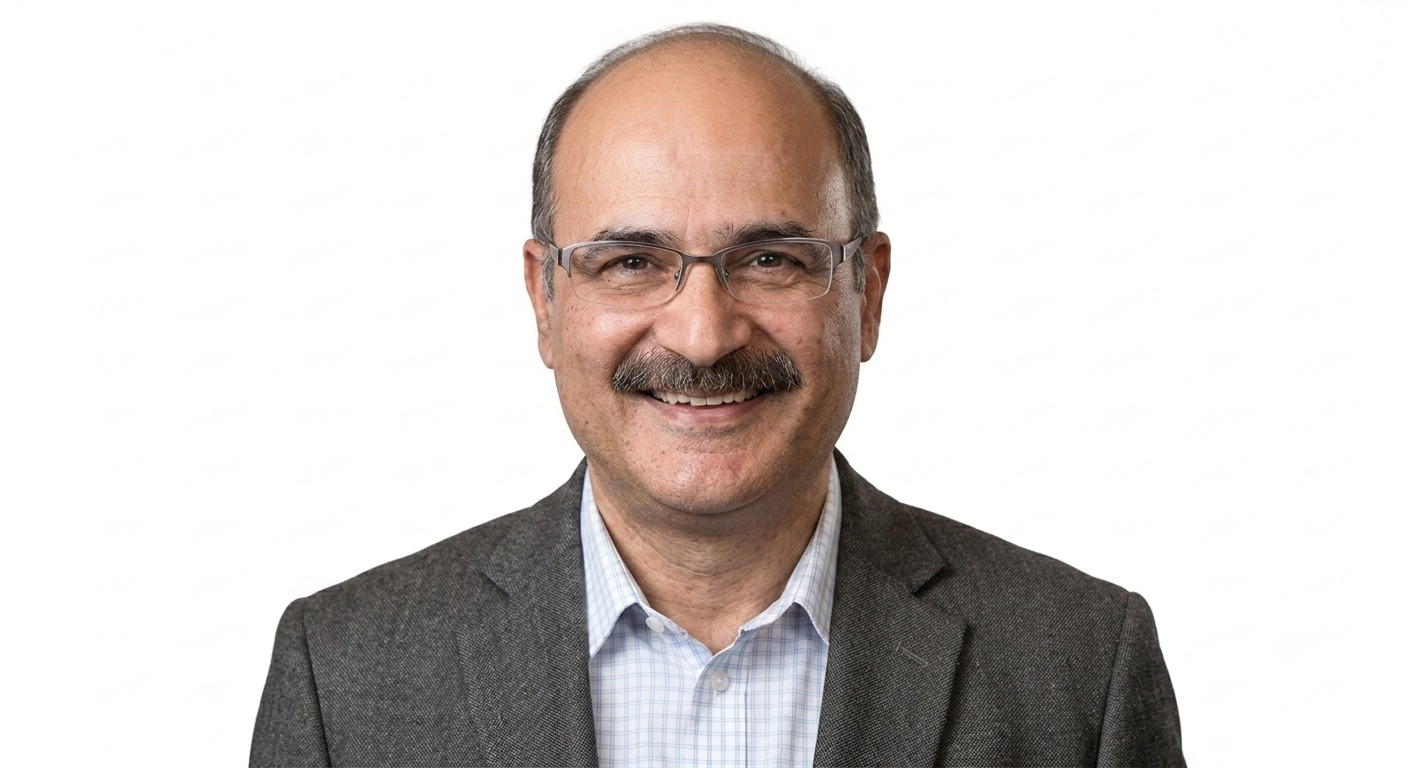
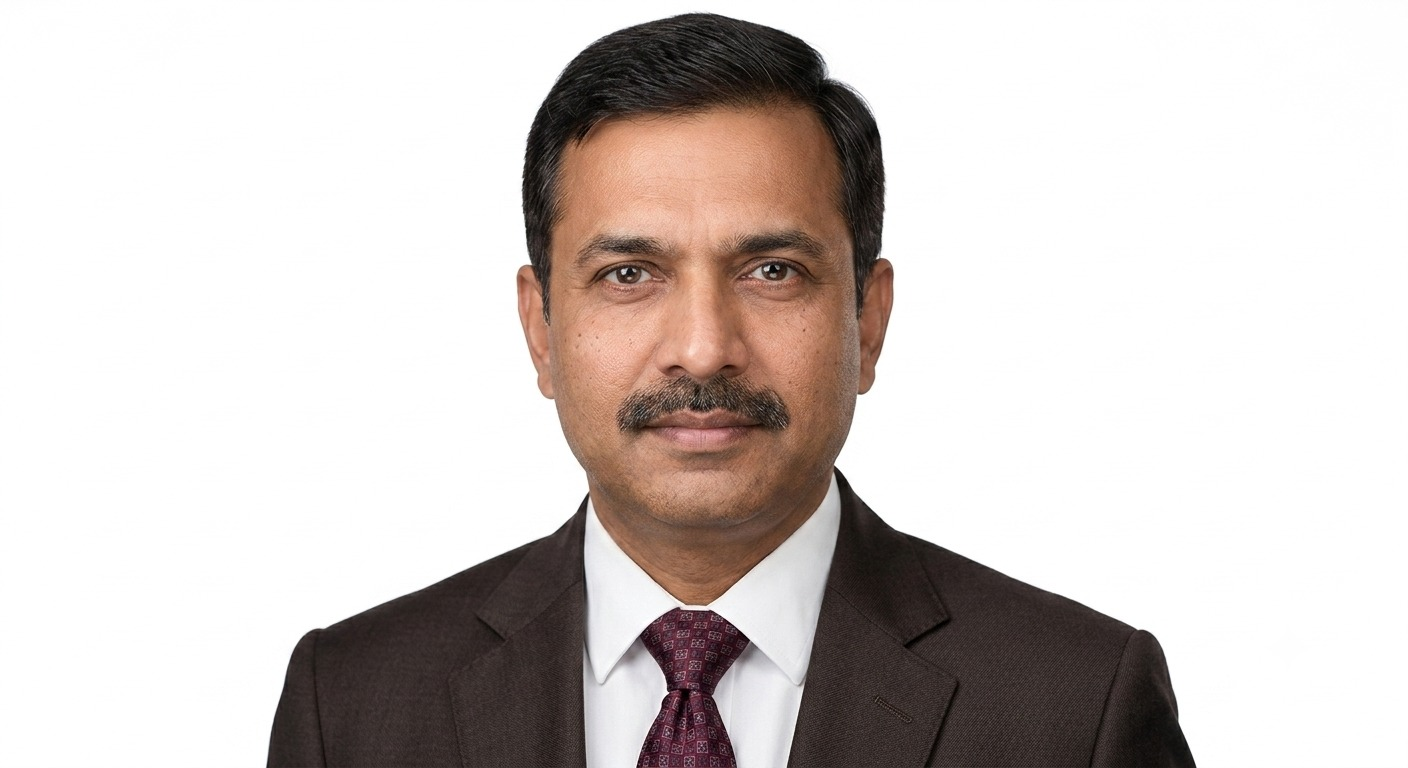
improvement 12

Changed region(s): [[0.1562, 0.0, 0.875, 1.0]]

diff --git a/app/technology/page.tsx b/app/technology/page.tsx
@@ -902,7 +902,7 @@ function CtaBanner() {
             {/* Right CTA */}
             <div className="flex w-full lg:w-auto lg:justify-end flex-shrink-0">
               <a
-                href="#contact"
+                href="/contact"
                 className="group inline-flex min-w-[210px] items-center justify-center gap-2 rounded-full bg-[#00a550] px-7 py-4 text-sm font-semibold text-white shadow-md transition-all duration-300 hover:-translate-y-0.5 hover:bg-[#0F4725] hover:shadow-xl"
               >
                 Talk To Our Team

diff --git a/src/app/components/ProductSection.tsx b/src/app/components/ProductSection.tsx
@@ -21,7 +21,7 @@ const products: Product[] = [
   {
     id: 1,
     tag: 'Product 01',
-    title: 'Powertrain',
+    title: 'EV Powertrain',
     subtitle: 'High-Efficiency Mid Drive Motor with Integrated Controller',
     description: '',
     image: '/photos/motor-main.png',
